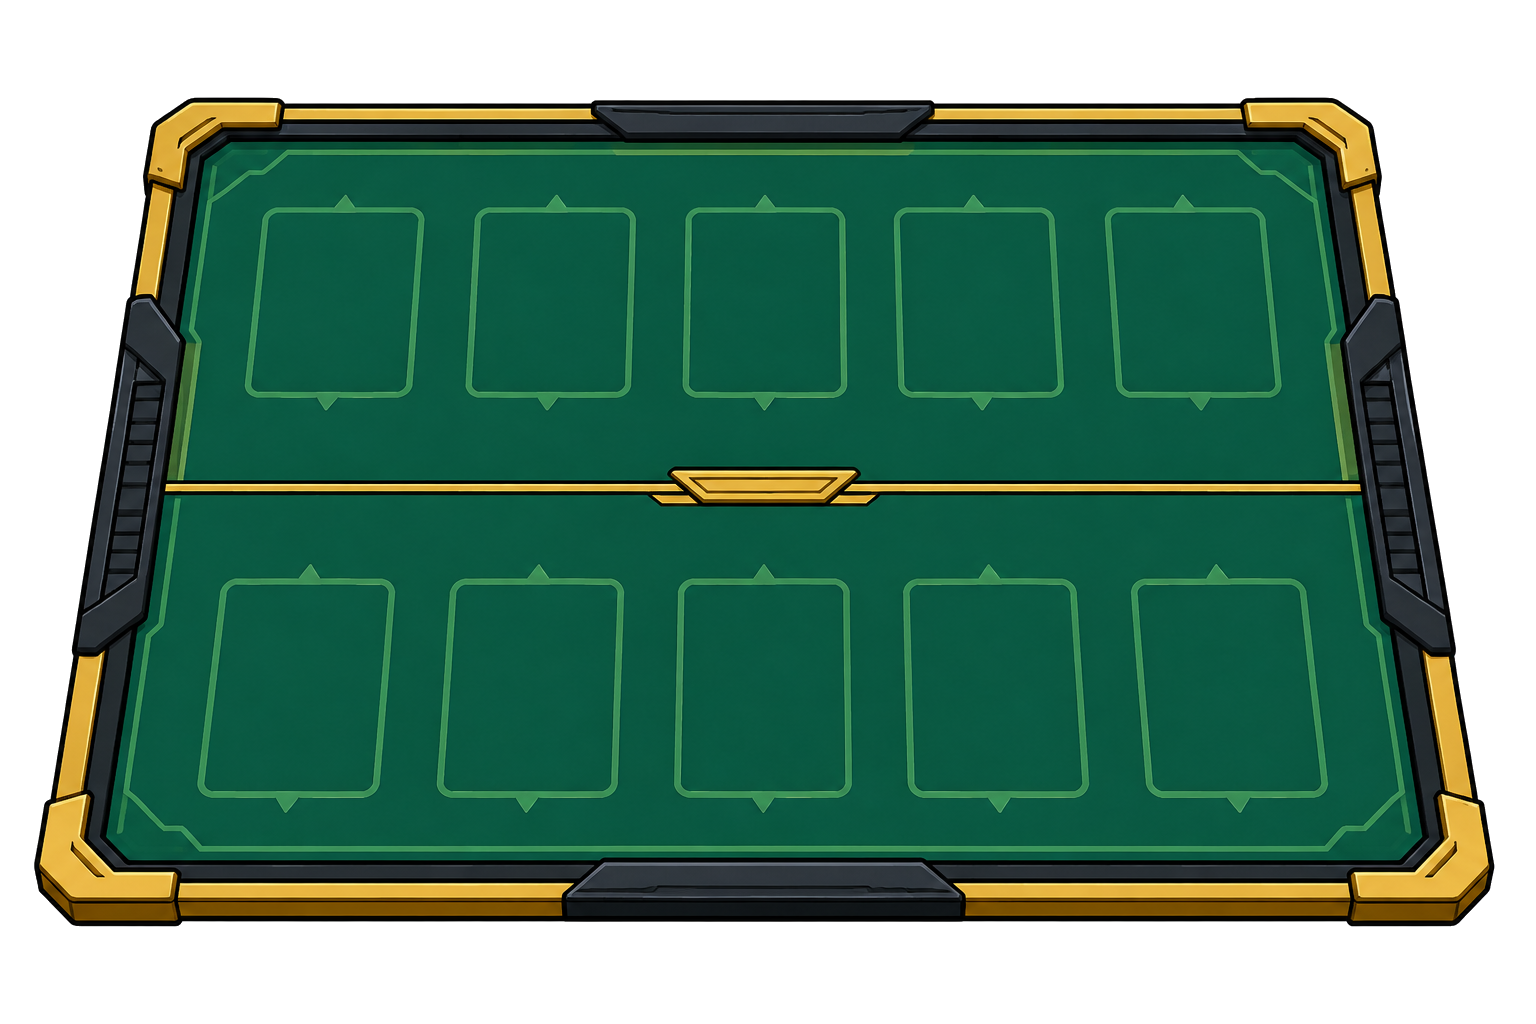
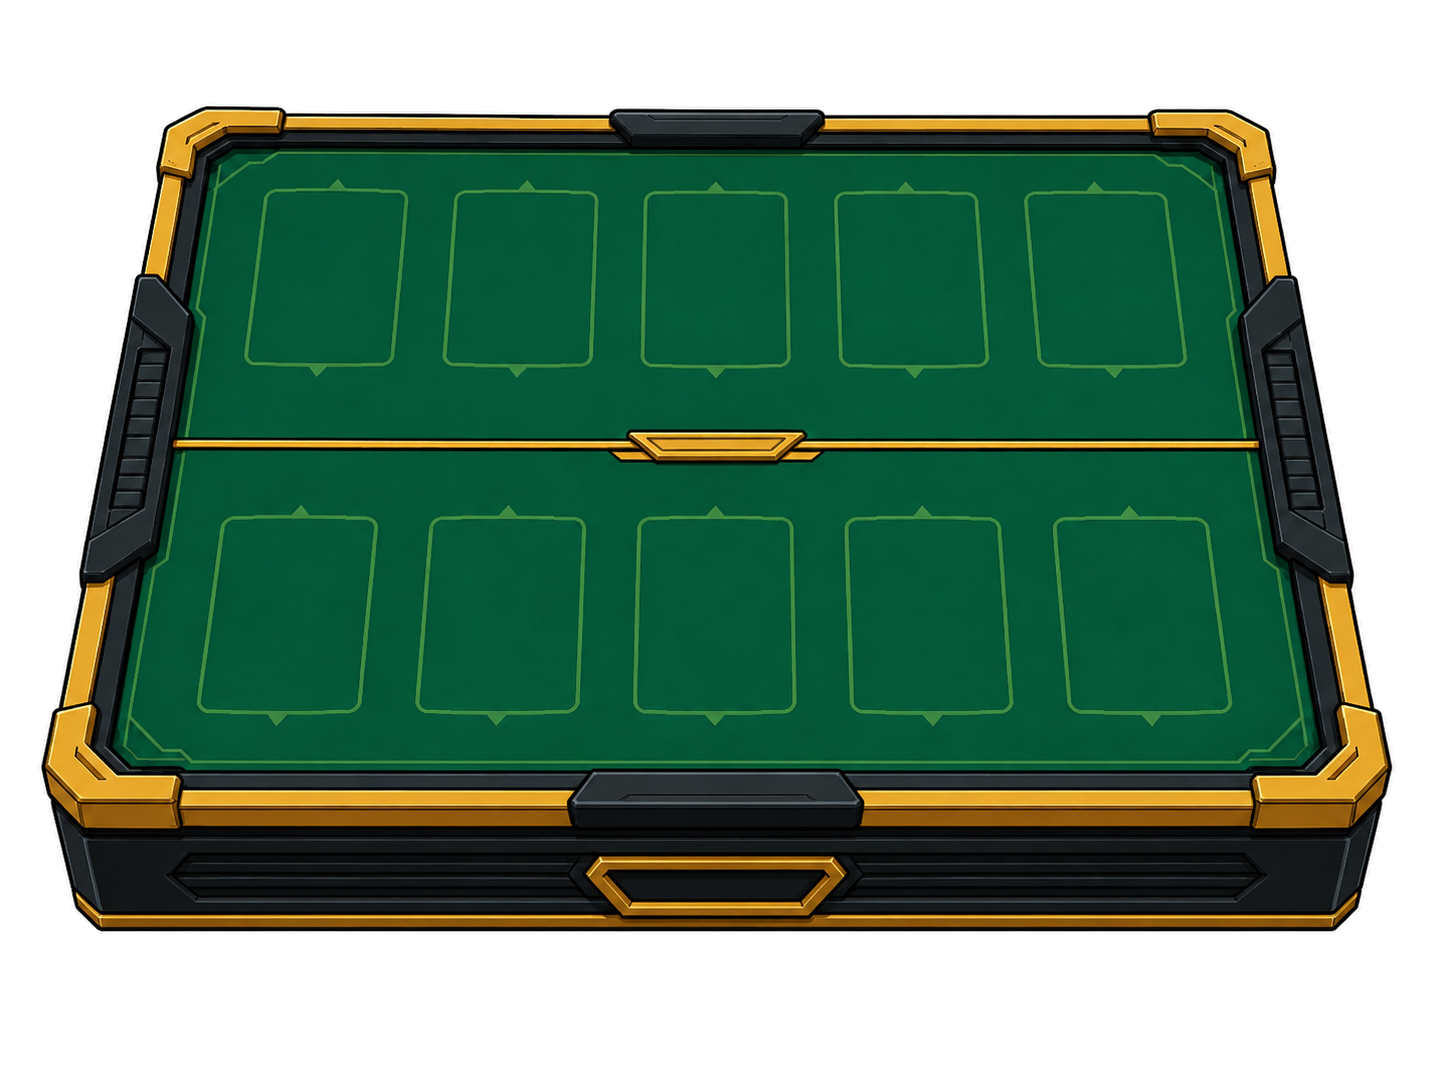
Replace board with tabletop version

diff --git a/src/styles.css b/src/styles.css
@@ -604,8 +604,8 @@ button.character-slot.active:focus-visible { z-index: 2; transform: translateY(-
   user-select: none;
   transform: translate(-50%, -50%);
 }
-.arena { --board-shift: 60px; --attack-reach: clamp(180px, calc(26 * var(--stage-vh)), 260px); --attack-leader-reach: clamp(220px, calc(32 * var(--stage-vh)), 320px); --attack-overlap: 0px; --attack-knockback: 20px; --attack-shake: 5px; --guard-intercept-distance: 15px; --leader-shake: 5px; --attack-impact-size: clamp(115px, calc(16 * var(--stage-vw)), 190px); position: relative; z-index: 2; flex: 1; min-height: 0; margin-right: 0; padding: calc(8px + var(--board-shift)) 300px 150px; display: grid; grid-template-rows: minmax(120px, 1fr) 26px minmax(120px, 1fr); gap: 8px; }
-.battle-board-art { position: absolute; z-index: 0; top: calc(8px + var(--board-shift)); right: 300px; bottom: 150px; left: 300px; display: block; width: calc(100% - 600px); height: calc(100% - 158px - var(--board-shift)); object-fit: fill; pointer-events: none; user-select: none; }
+.arena { --board-shift: 60px; --board-top: calc(8px + var(--board-shift)); --board-height: calc(var(--stage-h) - 158px - var(--board-shift)); --board-left: 300px; --board-width: calc(100% - 600px); --attack-reach: clamp(180px, calc(26 * var(--stage-vh)), 260px); --attack-leader-reach: clamp(220px, calc(32 * var(--stage-vh)), 320px); --attack-overlap: 0px; --attack-knockback: 20px; --attack-shake: 5px; --guard-intercept-distance: 15px; --leader-shake: 5px; --attack-impact-size: clamp(115px, calc(16 * var(--stage-vw)), 190px); position: relative; z-index: 2; flex: 1; min-height: 0; margin-right: 0; padding: 0; display: block; }
+.battle-board-art { position: absolute; z-index: 0; top: var(--board-top); right: 300px; bottom: auto; left: 300px; display: block; width: var(--board-width); height: var(--board-height); object-fit: fill; pointer-events: none; user-select: none; }
 .battle-leader-info { display: flex; align-items: center; gap: 12px; flex: 0 0 auto; }
 .opponent-leader-info { justify-content: flex-end; }
 .brother-leader-info { justify-content: flex-start; }
@@ -625,11 +625,13 @@ button.character-slot.active:focus-visible { z-index: 2; transform: translateY(-
 .hand-card-back i { position: relative; z-index: 1; width: 5px; height: 30px; background: var(--pink); box-shadow: 0 0 8px var(--pink); transform: rotate(45deg); }
 .hand-count-draw { animation: hand-count-draw var(--event-duration, .34s) cubic-bezier(.2,.8,.25,1) both; }
 .hand-count-play { animation: hand-count-play var(--event-duration, .48s) cubic-bezier(.2,.8,.25,1) both; }
-.board-zone { position: relative; z-index: 2; min-height: 128px; display: flex; justify-content: center; align-items: center; gap: 12px; padding: 12px; border: 0; border-radius: 0; }
+.board-zone { position: absolute; z-index: 2; left: var(--board-left); width: var(--board-width); min-height: 128px; display: flex; justify-content: center; align-items: center; gap: 12px; padding: 12px; border: 0; border-radius: 0; box-sizing: border-box; }
 .opponent-board,
 .brother-board { align-items: center; }
+.opponent-board { top: calc(var(--board-top) + var(--board-height) * .135); height: max(128px, calc(var(--board-height) * .17)); }
+.brother-board { top: calc(var(--board-top) + var(--board-height) * .44); height: max(128px, calc(var(--board-height) * .18)); }
 .empty-board { color: #ffffff55; font: 800 12px "Yu Gothic", sans-serif; }
-.board-line { position: relative; z-index: 1; display: grid; place-items: center; }
+.board-line { position: absolute; z-index: 1; top: calc(var(--board-top) + var(--board-height) * .416 - 13px); left: var(--board-left); width: var(--board-width); height: 26px; display: grid; place-items: center; }
 .board-line::before { display: none; }
 .board-line b { visibility: hidden; }
 .board-line b { z-index: 1; padding: 4px 12px; color: var(--ink); background: var(--yellow); border: 2px solid var(--ink); font: 900 9px Arial, sans-serif; letter-spacing: .12em; }
@@ -1553,7 +1555,7 @@ button.hand-count-zone:hover, button.hand-count-zone:focus-visible { background:
   .life span { font-size: 9px; }
   .life b { font-size: 32px; }
   .pp { padding: 8px 9px; font-size: 12px; }
-  .arena { padding-top: calc(2px + var(--board-shift)); padding-bottom: 110px; gap: 6px; }
+  .arena { padding: 0; }
   .board-zone { padding: 8px; }
   .hand-count-zone { padding: 0 8px; }
   /* 背の低い横長では、上下のメッセージウィンドウと盤面・手札が同居できるよう手札を一段小さくする。 */
